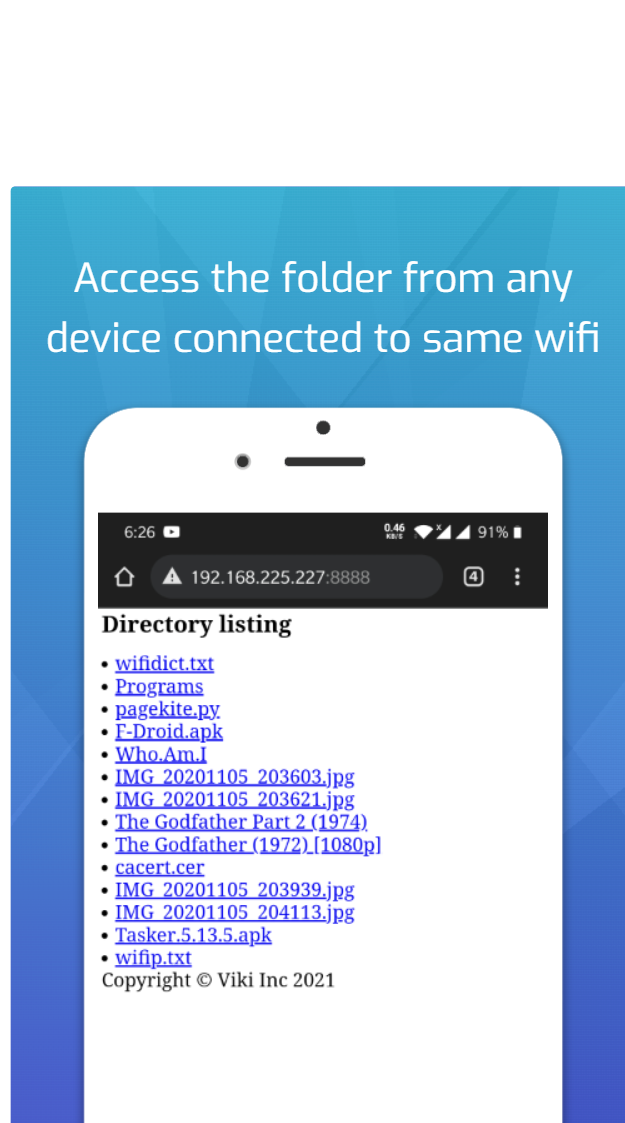
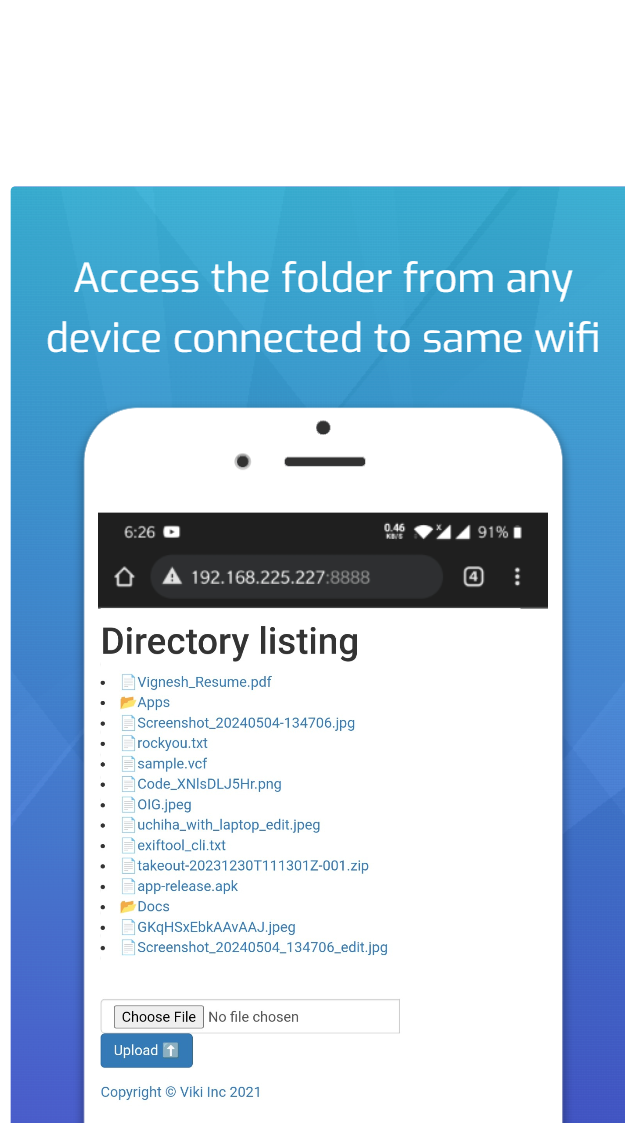
Updating README.md with newer features & screnshots

Changed region(s): [[0.152, 0.5298, 0.608, 0.9973]]

diff --git a/README.md b/README.md
@@ -1,19 +1,21 @@
+![Icon](https://raw.githubusercontent.com/many-fac3d-g0d/ServeIt/main/assets/icon/icon.PNG)
 # ServeIt
-
-A simple http-server on android using flutter.
-
 [<img src="https://fdroid.gitlab.io/artwork/badge/get-it-on.png" alt="Get It On F-Droid" width="200"/>](https://f-droid.org/en/packages/com.example.flutter_http_server/)
 [<img alt="Get it on Google Play" src="https://play.google.com/intl/en_us/badges/static/images/badges/en_badge_web_generic.png" width="200"/>](https://play.google.com/store/apps/details?id=com.viki.serveit&hl=en&gl=US)
 
-## Getting Started
-
+## 💻Getting Started
 One app to serve them all
 
-This app can start a http-server from an android/ios device binding to the port specified by the user (default 8888) and expose a directory from the device specified by the user (default dir /sdcard/Downloads).
+ServeIt uses http protocol as a way to share (both send & receive) files between multiple devices.
 
-Any device connected to the same wifi network and with a web browser, can navigate to the server url or scan the QR code to access the directory exposed
+Any device with a web browser connected to the same LAN network can navigate to the url exposed by ServeIt app, to share files inside the network.
 
-## Screenshots
+## 🥽Features
+- Send files to multiple devices connected to the same LAN network
+- Receive files from multiple devices connected to the same LAN network
+- Cross platform file sharing across Android, Windows, Linux, MacOS, iOS basically any OS which supports web browser & http protocol
+- Start a single webpage server from Android (Serves index.html from the exposed root direcory as a webpage under LAN, For more info check [#10](https://github.com/many-fac3d-g0d/ServeIt/pull/10))
+## 📸Screenshots
 
 [<img src="metadata/en-US/images/phoneScreenshots/1.png" alt="Scrshot 1" width="250" height="450"/>](metadata/en-US/images/phoneScreenshots/1.png)
 [<img src="metadata/en-US/images/phoneScreenshots/2.png" alt="Scrshot 2" width="250" height="450"/>](metadata/en-US/images/phoneScreenshots/2.png)
@@ -22,16 +24,18 @@ Any device connected to the same wifi network and with a web browser, can naviga
 [<img src="metadata/en-US/images/phoneScreenshots/5.png" alt="Scrshot 5" width="750" height="450"/>](metadata/en-US/images/phoneScreenshots/5.png)
 
 
-## Authentication
+## 🔐Authentication
 
-Currently there is no authentication from app end. The app assumes anyone connected to the same wifi network as the user is already authenticated. Do not use the app in a public wifi.
+Currently there is no authentication from app end. The app assumes anyone connected to the same wifi network as the user is already authenticated.
 
-## Donate
+⚠ Do not use the app in a public wifi.
+
+## 💰Donate
 
 Liked this project, want to contribute ? Consider donating
 
 [![paypal](https://www.paypalobjects.com/en_US/i/btn/btn_donateCC_LG.gif)](https://paypal.me/thisisviki?country.x=IN&locale.x=en_GB)
 
-## License
+## 📄License
 
 This project and its contents are open source under the [GNU GPLv3](https://choosealicense.com/licenses/gpl-3.0/)
